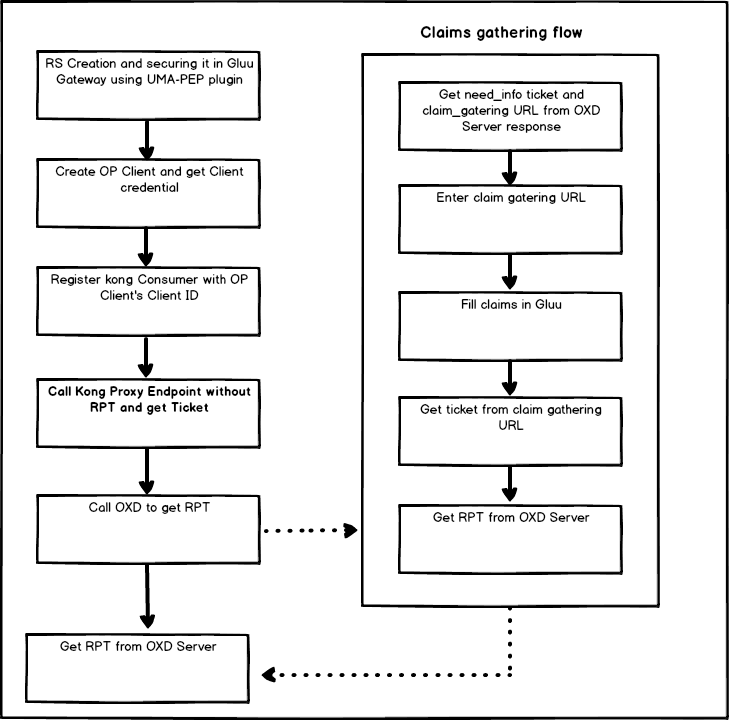
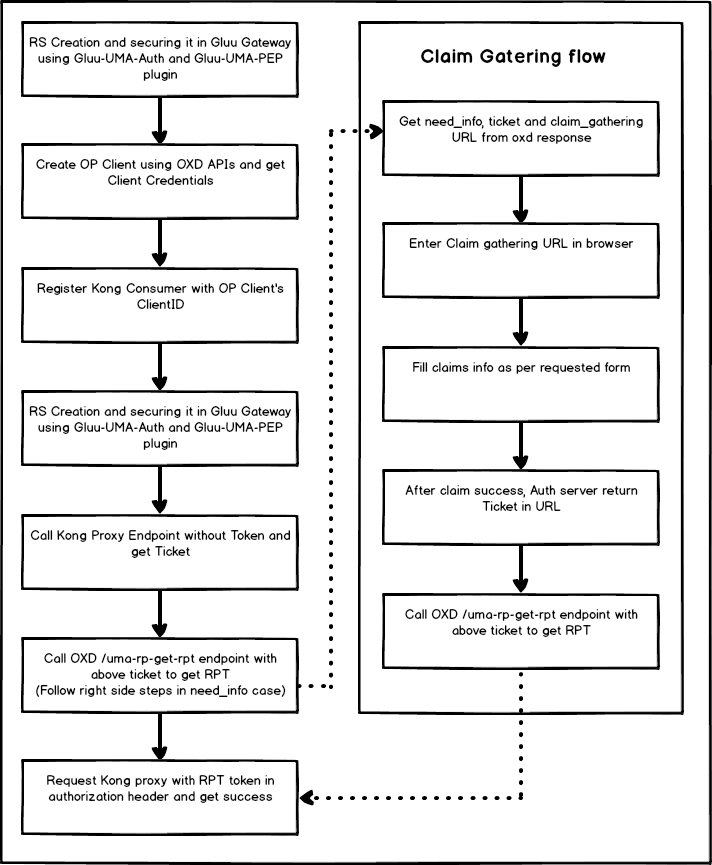
Update uma tutorial

Changed region(s): [[0.0, 0.0, 1.0, 1.0]]

diff --git a/docs/source/uma-tutorial.md b/docs/source/uma-tutorial.md
@@ -2,7 +2,7 @@
 
 ## Overview
 
-This tutorial covers [UMA grant security](https://docs.kantarainitiative.org/uma/wg/rec-oauth-uma-grant-2.0.html) using the GLUU-UMA-PEP plugin and the Gluu Server. There are two different ways to apply UMA security, **with Claim-Gathering-flow** and **without Claim-Gathering-flow**. The [demo](https://github.com/GluuFederation/gluu-gateway/tree/version_2.0/gg-demo) is a **Python CGI** script that can be deployed on any CGI-enabled server.
+This tutorial covers [UMA grant security](https://docs.kantarainitiative.org/uma/wg/rec-oauth-uma-grant-2.0.html) using the GLUU-UMA-Auth and GLUU-UMA-PEP plugin and the Gluu CE. There are two different ways to apply UMA security, **with Claim-Gathering-flow** and **without Claim-Gathering-flow**. The [demo](https://github.com/GluuFederation/gluu-gateway/tree/version_2.0/gg-demo) is a **Python CGI** script that can be deployed on any CGI-enabled server.
 
 ## Parties
 
@@ -18,7 +18,7 @@ This tutorial covers [UMA grant security](https://docs.kantarainitiative.org/uma
 
 Configure plugin on **Service**, **Route** and **Global**. 
 
-There are several possibilities for plugin configuration with services and routes. More information is available in the [Kong docs](https://docs.konghq.com/0.14.x/admin-api/#precedence), and configuration detail descriptions are available in the [Gluu Gateway docs](https://gluu.org/docs/gg/plugin/gluu-uma-pep/).
+There are several possibilities for plugin configuration with services and routes. More information is available in the [Kong docs](https://docs.konghq.com/0.14.x/admin-api/#precedence), and configuration detail descriptions are available in the [Gluu Gateway docs](/plugin/gluu-uma-auth-pep).
 
 Applications and their ports:
 
@@ -34,7 +34,7 @@ The following tutorial demonstrates plugin configuration for a Service. Follow t
 
 ### Add Service
 
-Register your upstream API as a Service. For more details, see the [Gluu UMA PEP service docs](/plugin/gluu-uma-pep/#add-service-using-gg-ui).
+Register your upstream API as a Service. For more details, see the [Gluu UMA Auth and UMA PEP service docs](/plugin/gluu-uma-auth-pep/#service-level).
 
 For this demo, you'll need to add two different services with different names. You can use this live test API, `https://jsonplaceholder.typicode.com`.
 
@@ -50,7 +50,7 @@ For this demo, you'll need to add two different services with different names. Y
 
 ### Add Route
 
-For a proxy, you need to add a Route to the Service. For more details, see the [Gluu UMA PEP route docs](/plugin/gluu-uma-pep/#add-route-using-gg-ui).
+For a proxy, you need to add a Route to the Service. For more details, see the [Gluu UMA Auth and UMA PEP route docs](/plugin/gluu-uma-auth-pep/#route-level).
 
 - Route1
     - Add the first route in **claim_service** with `gathering.example.com` as the host.
@@ -60,7 +60,7 @@ For a proxy, you need to add a Route to the Service. For more details, see the [
 
 ### Configure Plugin on Service
 
-Configure Gluu-UMA-PEP with UMA scopes and resources. See more details in the [Service Plugin docs](/plugin/gluu-uma-pep/#configure-service-plugin-using-gg-ui).
+Configure Gluu-UMA-Auth and Gluu-UMA-PEP with UMA scopes and resources. See more details in the [Service Plugin docs](/plugin/gluu-uma-auth-pep/#configure-service-plugin-using-gg-ui).
 
 - Resource registration for **claim_service**.
 ![claim_gathering](img/15_claim_gatering_uma_expression.png)

diff --git a/docs/source/plugin/gluu-oauth-auth-pep.md b/docs/source/plugin/gluu-oauth-auth-pep.md
@@ -345,7 +345,7 @@ The following parameters can be used in this plugin's configuration.
 |**client_id**|| An existing client ID, used to get a protection access token to access the introspection API. Required if an existing oxd ID is provided.|
 |**client_secret**|| An existing client secret, used to get protection access token to access the introspection API. Required if an existing oxd ID is provided.|
 |**anonymous**||An optional string (consumer UUID) value to use as an “anonymous” consumer if authentication fails. If empty (default), the request will fail with an authentication failure 4xx. This value must refer to the Consumer ID attribute that is internal to Kong, and not its custom_id.|
-|**pass_credentials**|pass|It allow to 3 values.  An optional boolean value telling the plugin to show or hide the credential from the upstream service. If true, the plugin will strip the credential from the request (i.e. the Authorization header) before proxying it.|
+|**pass_credentials**|pass|It allows to 3 values. `pass`, `hide` and `phantom_token`. Used to operate the authorization header from the upstream service as per configuration. In `phantom_token` case, plugin will replace bearer token with new generated JWT(with introspection result) token, so for outside there is bearer token and JWT for internal use.|
 
 2. Gluu-OAuth-PEP
 

diff --git a/docs/source/plugin/gluu-uma-auth-pep.md b/docs/source/plugin/gluu-uma-auth-pep.md
@@ -296,7 +296,7 @@ Here is a list of all the parameters which can be used in this plugin's configur
 |**client_id**|| An existing client ID, used to get a protection access token to access the introspection API. Required if an existing oxd ID is provided.|
 |**client_secret**|| An existing client secret, used to get protection access token to access the introspection API. Required if an existing oxd ID is provided.|
 |**anonymous**||An required string (consumer Id) value to use as an “anonymous” consumer if authentication fails. You need to set the Anonymous consumer because it is used to by pass gluu-uma-auth authentication and help to get the ticket from gluu-uma-pep. |
-|**hide_credentials**|false|An optional boolean value telling the plugin to show or hide the credential from the upstream service. If true, the plugin will strip the credential from the request (i.e. the Authorization header) before proxying it.|
+|**pass_credentials**|pass|It allows 3 values. `pass`, `hide` and `phantom_token`. Used to operate the authorization header from the upstream service as per configuration. In `phantom_token` case, plugin will replace bearer token with new generated JWT(with introspection result) token, so for outside there is bearer token and JWT for internal use.|
 
 #### Gluu-UMA-PEP 
 

diff --git a/docs/source/components.md b/docs/source/components.md
@@ -24,4 +24,4 @@ Gluu Gateway requires an OAuth 2.0 Authorization Server (AS), typically the Gluu
 
 Gluu Gateway is compatible with the following versions of Gluu:
 
-- Gluu Server [CE 3.1.6](https://gluu.org/docs/ce/3.1.6), [CE 3.1.5]((https://gluu.org/docs/ce/3.1.5) 
+- Gluu Server [CE 3.1.6](https://gluu.org/docs/ce/3.1.6), [CE 3.1.5](https://gluu.org/docs/ce/3.1.5) 
